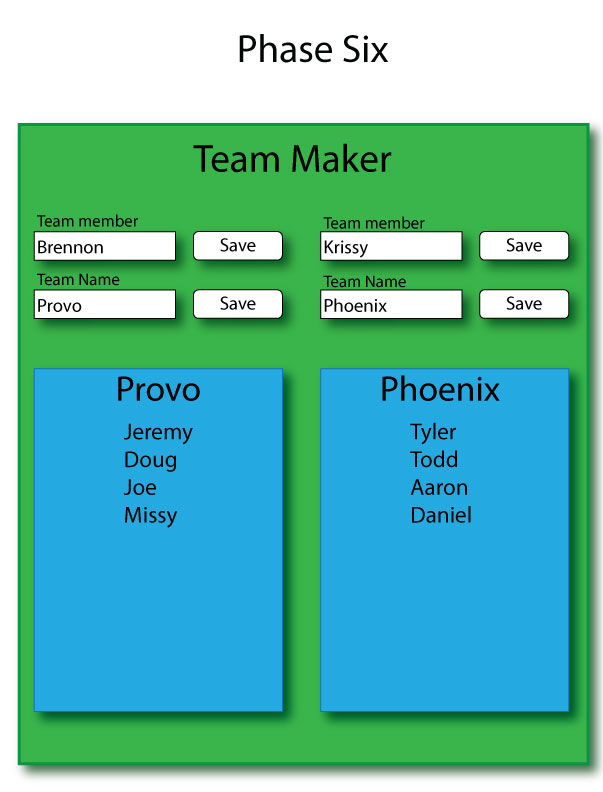
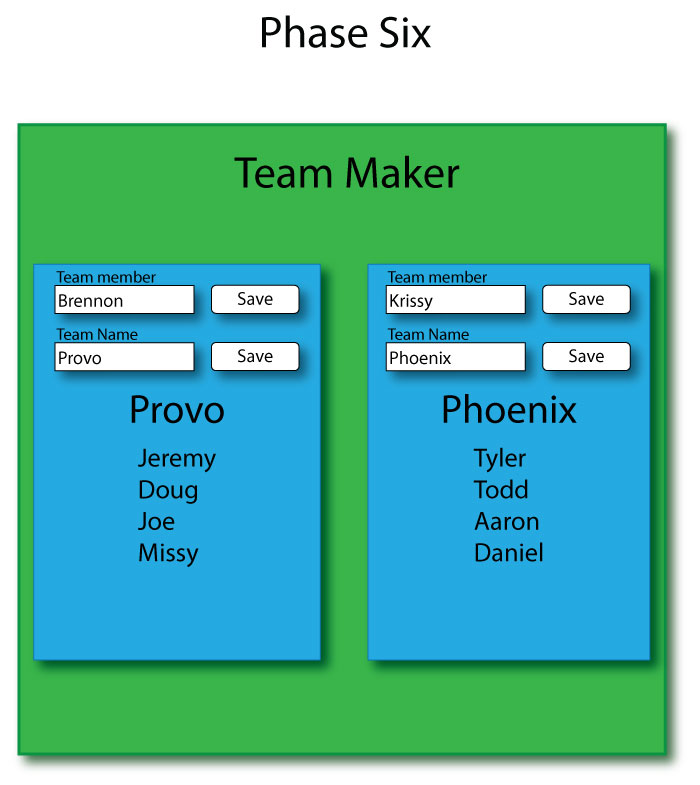
Finished 2

diff --git a/State-and-Props/02-Team-Maker/README.md b/State-and-Props/02-Team-Maker/README.md
@@ -104,8 +104,25 @@ You will want to use props to set your initial state so that each component will
 - Theme Changer
 
 ## Phase Five
-#### 
+#### Using the same component to display two teams
 
 <p align="center">
   <img src="https://github.com/Rasbandit/React-Drills/blob/master/images/Team Maker/phase-5.jpg" width="375" height="420">
 </p>
+
+Lets duplicate our code so that we can create and manage two teams at the same time. You will need to add another team on your App.js' state and another spot to hold a team name. Create another instance of your team list component and pass it the the values for the new team and team name. 
+
+You will also need to create a new team member box and button, as well as team name box and button and set them to update the new values on state.
+
+## Phase Five
+#### Migrating all info into the component
+
+<p align="center">
+  <img src="https://github.com/Rasbandit/React-Drills/blob/master/images/Team Maker/phase-5.jpg" width="375" height="420">
+</p>
+
+You may have realized already but having our app manage the state for the two teams is not the most effective way. It would be better if the component had the input boxes inside of the component itself. This would make it so we could add a whole new team without having to keep making info on our App.js
+
+In this step move the team member and team name input's into the component and have it change the components state instead of using props and `componentWillReceiveProps`.
+
+If you moved the input fields to the component correctly you should be able to create copy the component as many times as you want and each component will be able to keep track of its own state.

diff --git a/README.md b/README.md
@@ -1,8 +1,8 @@
 # React Drills
 
-## State and Props
+### State and Props
 
 <p float="left">
   <img src="https://github.com/Rasbandit/React-Drills/blob/master/images/Clicker/Clicker.jpg" width="220" height="267">
-  <img src="https://github.com/Rasbandit/React-Drills/blob/master/images/Clicker/Clicker.jpg" width="239" height="267">
+  <img src="https://github.com/Rasbandit/React-Drills/blob/master/images/Clicker/Team-Maker.jpg" width="239" height="267">
 </p>
